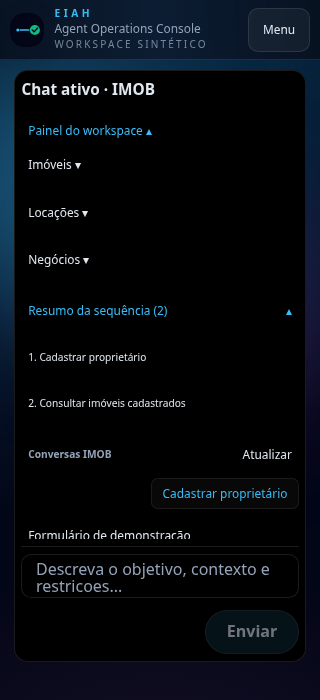
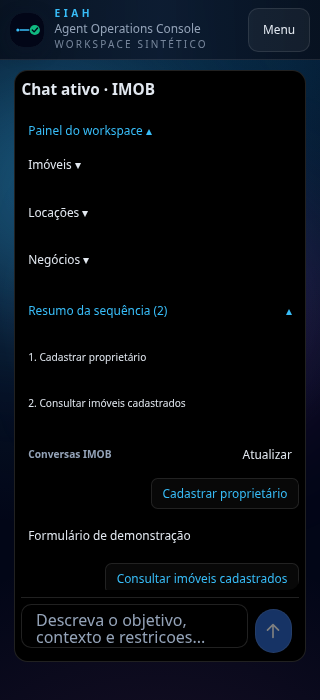
style(front-door): inline arrow send control and clearer borders

Changed region(s): [[0.0938, 0.78, 0.9375, 0.96]]

diff --git a/apps/web/src/styles.css b/apps/web/src/styles.css
@@ -137,7 +137,7 @@
   }
 
   .front-door-page .front-door-sidebar [role="combobox"] {
-    @apply min-h-[44px] rounded-xl border border-white/10 bg-black/30 px-3 text-sm font-normal;
+    @apply min-h-[44px] rounded-xl border border-white/[0.13] bg-black/30 px-3 text-sm font-normal;
   }
 
   .front-door-page .front-door-reading-column {
@@ -145,16 +145,18 @@
   }
 
   .front-door-page .front-door-composer > div:first-child {
-    flex-basis: 100%;
+    grid-column: 1;
+    grid-row: 1;
   }
 
   .front-door-page .front-door-composer > button:last-child {
-    margin-left: auto;
+    grid-column: 2;
+    grid-row: 1;
   }
 
   .front-door-page .imob-structured-form,
   .front-door-page [data-testid="launcher-conversation-surface"] form {
-    @apply min-w-0 rounded-2xl border border-white/10 bg-[#1a2231] p-4 sm:p-5;
+    @apply min-w-0 rounded-2xl border border-white/[0.13] bg-[#1a2231] p-4 sm:p-5;
   }
 
   .front-door-page .imob-structured-form {
@@ -162,7 +164,7 @@
   }
 
   .front-door-page .imob-structured-form > div:first-child {
-    @apply border-b border-white/10 pb-4;
+    @apply border-b border-white/[0.13] pb-4;
   }
 
   .front-door-page .imob-form-fields {
@@ -213,7 +215,7 @@
   .front-door-page [data-testid="launcher-conversation-surface"] textarea,
   .front-door-page .front-door-composer textarea,
   .front-door-page .front-door-composer select {
-    @apply rounded-xl border border-white/10 bg-black/30 px-4 py-2 text-foreground placeholder:text-muted-foreground;
+    @apply rounded-xl border border-white/[0.13] bg-black/30 px-4 py-2 text-foreground placeholder:text-muted-foreground;
   }
 
   .front-door-page [data-testid="launcher-conversation-surface"] input:focus-visible,
@@ -225,7 +227,7 @@
   .front-door-page [data-testid="launcher-conversation-surface"] button,
   .front-door-page .front-door-composer button,
   .front-door-page .front-door-launcher > header button {
-    @apply rounded-full border border-white/10 bg-white/5 px-4 py-2 font-semibold no-underline transition;
+    @apply rounded-full border border-white/[0.13] bg-white/5 px-4 py-2 font-semibold no-underline transition;
   }
 
   .front-door-page [data-testid="launcher-conversation-surface"] button:hover:not(:disabled),
@@ -235,7 +237,7 @@
 
   .front-door-page button[data-front-door-primary="true"],
   .front-door-page [data-testid="launcher-conversation-surface"] button[type="submit"] {
-    @apply border border-white/10 bg-accent/20 px-6 text-foreground;
+    @apply border border-white/[0.13] bg-accent/20 px-6 text-foreground;
   }
 
   .front-door-page button[data-front-door-primary="true"]:hover:not(:disabled),
@@ -244,12 +246,12 @@
   }
 
   .front-door-page .front-door-composer [role="menu"] {
-    @apply grid gap-1 rounded-xl border border-white/10 bg-[#1a2231] p-1.5;
+    @apply grid gap-1 rounded-xl border border-white/[0.13] bg-[#1a2231] p-1.5;
   }
 
   .front-door-page .front-door-composer [role="menu"] [role="menuitem"],
   .front-door-page [data-message-role="user"] {
-    @apply rounded-lg border border-white/[0.08] bg-white/[0.03] px-3 py-1.5 font-medium;
+    @apply rounded-lg border border-white/[0.104] bg-white/[0.03] px-3 py-1.5 font-medium;
   }
 
   .front-door-page .front-door-composer [role="menu"] [role="menuitem"] {
@@ -296,6 +298,21 @@
 
   .front-door-page .front-door-conversation-history > div:first-child > button {
     @apply w-auto shrink-0;
+  }
+
+  /* Increase existing border alpha by 30%; preserve hue and borderless menus. */
+  .front-door-page [class~="border-white/10"] { border-color: rgb(255 255 255 / 0.13); }
+  .front-door-page [class~="border-white/[0.08]"] { border-color: rgb(255 255 255 / 0.104); }
+  .front-door-page [class~="border-white/5"] { border-color: rgb(255 255 255 / 0.065); }
+
+  .front-door-page .front-door-composer button[data-front-door-send="true"] {
+    @apply flex h-11 min-h-[44px] w-11 items-center justify-center rounded-full p-0 text-white;
+    background-color: #2d67ca;
+    border-color: rgb(255 255 255 / 0.13);
+    margin-bottom: 1px;
+  }
+  .front-door-page .front-door-composer button[data-front-door-send="true"]:hover:not(:disabled) {
+    background-color: #3977df;
   }
 
   .front-door-composer textarea {
@@ -345,7 +362,7 @@
 }
 
 .mission-control-tour .introjs-button {
-  @apply rounded-full border border-white/10 bg-white/5 px-4 py-2 text-xs font-semibold uppercase tracking-widest text-foreground transition hover:border-accent/60 hover:text-accent;
+  @apply rounded-full border border-white/[0.13] bg-white/5 px-4 py-2 text-xs font-semibold uppercase tracking-widest text-foreground transition hover:border-accent/60 hover:text-accent;
 }
 
 .mission-control-tour .introjs-button.introjs-disabled {

diff --git a/apps/web/src/components/agents/ChatAgentLauncher.tsx b/apps/web/src/components/agents/ChatAgentLauncher.tsx
@@ -2160,8 +2160,8 @@ export default function ChatAgentLauncher({
 
           </div>
 
-	          <div className="front-door-composer front-door-reading-column flex shrink-0 flex-wrap items-end gap-2 border-t border-white/10 pt-2">
-            <div className="min-w-0 flex-1 basis-full space-y-2 lg:basis-0">
+	          <div className="front-door-composer front-door-reading-column grid shrink-0 grid-cols-[minmax(0,1fr)_44px] items-end gap-2 border-t border-white/10 pt-2">
+            <div className="min-w-0 space-y-2">
               {attachmentIntake.enabled ? (
                 <div className="rounded-2xl border border-white/10 bg-black/20 p-3">
                   <div className="flex flex-wrap items-center gap-2">
@@ -2273,6 +2273,7 @@ export default function ChatAgentLauncher({
 	              <button
                 type="button"
                 onClick={handleApprove}
+                style={{ gridColumn: "1 / -1", gridRow: 2 }}
                 data-front-door-primary="true"
                 className="min-h-[44px] px-4 py-2.5 text-xs font-semibold uppercase tracking-[0.2em] sm:py-1.5 text-accent transition hover:underline focus-visible:outline focus-visible:outline-2 focus-visible:outline-accent"
               >
@@ -2282,11 +2283,17 @@ export default function ChatAgentLauncher({
 	            <button
 	              type="button"
 	              onClick={handleSend}
+              aria-label={isUploadingAttachment ? "Enviando mensagem" : "Enviar mensagem"}
+              title={isUploadingAttachment ? "Enviando mensagem" : "Enviar mensagem"}
+              aria-busy={isUploadingAttachment}
+              data-front-door-send="true"
               data-front-door-primary="true"
               className="min-h-[44px] px-4 py-2.5 text-xs font-semibold uppercase tracking-[0.2em] sm:py-1.5 text-foreground transition hover:text-accent hover:underline focus-visible:outline focus-visible:outline-2 focus-visible:outline-accent disabled:cursor-not-allowed disabled:opacity-50"
               disabled={!canSend}
             >
-              {isUploadingAttachment ? "Enviando..." : "Enviar"}
+              <svg aria-hidden="true" viewBox="0 0 24 24" width="22" height="22" fill="none" stroke="currentColor" strokeWidth="1.8" strokeLinecap="round" strokeLinejoin="round">
+                <path d="M12 19V5m-6 6 6-6 6 6" />
+              </svg>
             </button>
           </div>
         </div>

diff --git a/docs/evidence/front-door-compact-sequence/README.md b/docs/evidence/front-door-compact-sequence/README.md
@@ -1,3 +1,5 @@
 Resumo da sequência compacto e recolhível, inicialmente fechado. Fonte menor, normal-case e tracking normal; pedidos em uma linha com truncamento e título completo no hover. Mantém navegação à mensagem original.
 
 Validação real: 29 testes de sequência/cabeçalho PASS; quatro cenários Chromium (320, 390, 1024, 1440) PASS com API e dados sintéticos. Verifica abrir/recolher/reabrir, navegação e regressão de busca/rename/delete/retomada. Capturas sequence-*.png mostram painel expandido. Não comprova staging. Status parcial: CI e deploy pendentes.
+
+Atualização do compositor: botão circular azul com SVG de seta para cima, nome acessível Enviar mensagem, mesmo handleSend/canSend e estado de upload; grid mantém botão ao lado do campo e aprovação em linha própria. Bordas brancas existentes com alpha multiplicado por 1,3 (10% para 13%, 8% para 10,4% e 5% para 6,5%); menus sem borda preservados. Nova execução: 29 testes PASS e quatro cenários Chromium PASS, incluindo posição na mesma linha e habilitação ao preencher/limpar. Logs composer-tests.log e composer-browser.log.
